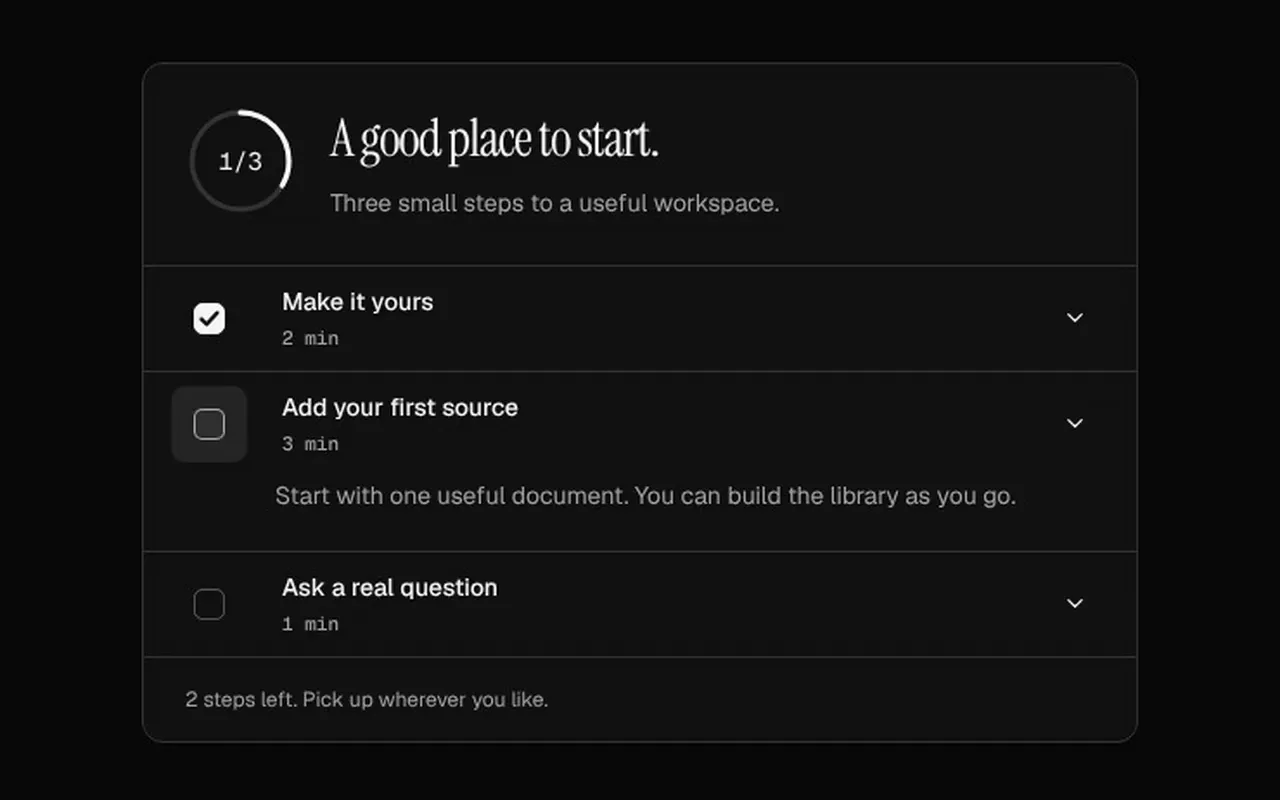
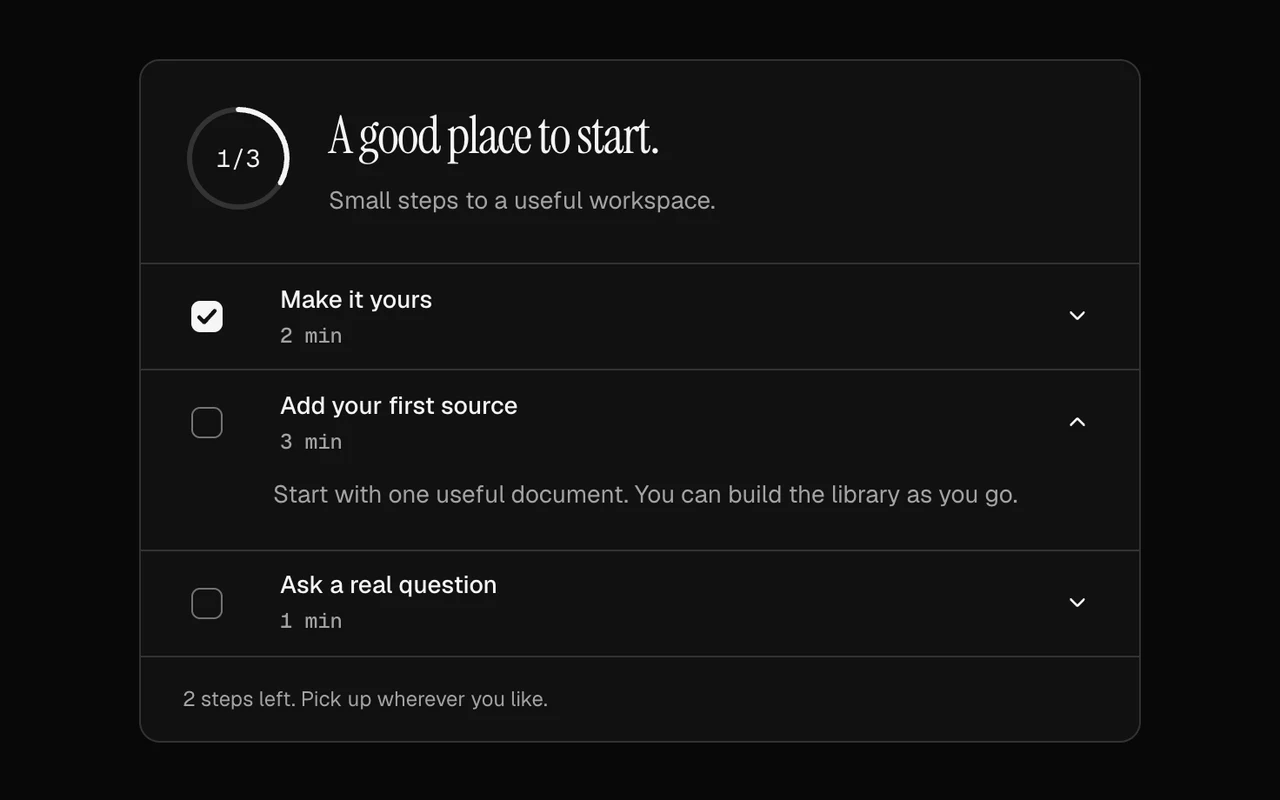
fix: protect setup checklist state; defer rejected film

diff --git a/registry/free/onboarding-setup-checklist/onboarding-setup-checklist.tsx b/registry/free/onboarding-setup-checklist/onboarding-setup-checklist.tsx
@@ -1,7 +1,14 @@
 "use client";
-import { type CSSProperties, useId, useState } from "react";
+import {
+  type CSSProperties,
+  useId,
+  useLayoutEffect,
+  useRef,
+  useState,
+  useSyncExternalStore,
+} from "react";
 import { ChevronDown } from "lucide-react";
-import { motion, useReducedMotion } from "motion/react";
+import { motion, useAnimationControls } from "motion/react";
 
 const control =
   "inline-flex min-h-11 min-w-11 items-center justify-center gap-2 rounded-lg px-3 text-sm font-medium transition-[background,transform] duration-150 hover:bg-[var(--wash)] disabled:hover:bg-transparent active:scale-[.97] focus-visible:outline-2 focus-visible:outline-offset-2 focus-visible:outline-[var(--ink)] disabled:cursor-not-allowed disabled:opacity-40 disabled:active:scale-100 motion-reduce:transform-none";
@@ -77,6 +84,7 @@ function colors(theme: "dark" | "light"): CSSProperties {
     "--wash": theme === "dark" ? "#242424" : "#f0f0f0",
     "--sc-ctl-ink": "var(--ink)",
     "--sc-ctl-surface": "var(--panel)",
+    "--sc-ctl-line": "#737373",
   } as CSSProperties;
 }
 
@@ -116,9 +124,16 @@ const defaults: SetupTask[] = [
     duration: "1 min",
   },
 ];
+const motionQuery = "(prefers-reduced-motion: reduce)";
+function subscribeToMotion(change: () => void) {
+  const query = window.matchMedia(motionQuery);
+  query.addEventListener("change", change);
+  return () => query.removeEventListener("change", change);
+}
+
 export function SetupChecklist({
   title = "A good place to start.",
-  description = "Three small steps to a useful workspace.",
+  description = "Small steps to a useful workspace.",
   tasks = defaults,
   completed,
   defaultCompleted = ["profile"],
@@ -126,21 +141,49 @@ export function SetupChecklist({
   theme = "dark",
 }: SetupChecklistProps) {
   const id = useId();
-  const reduced = useReducedMotion();
+  const reduced = useSyncExternalStore(
+    subscribeToMotion,
+    () => window.matchMedia(motionQuery).matches,
+    () => false,
+  );
+  const entrance = useAnimationControls();
+  const ring = useAnimationControls();
+  const ringStarted = useRef(false);
+  useLayoutEffect(() => {
+    entrance.stop();
+    const target = { opacity: 1, y: 0 };
+    if (reduced) entrance.set(target);
+    else void entrance.start({ ...target, transition: { duration: 0.32 } });
+    return () => entrance.stop();
+  }, [entrance, reduced]);
   const [local, setLocal] = useState(defaultCompleted);
   const [open, setOpen] = useState("sources");
-  const checked = completed ?? local;
+  const available = new Set(tasks.map((task) => task.id));
+  const checked = [...new Set((completed ?? local).filter((key) => available.has(key)))];
+  const readOnly = completed !== undefined && !onChange;
   const count = tasks.filter((t) => checked.includes(t.id)).length;
   const ratio = tasks.length ? count / tasks.length : 0;
+  useLayoutEffect(() => {
+    ring.stop();
+    const target = { strokeDashoffset: 176 * (1 - ratio) };
+    const first = !ringStarted.current;
+    ringStarted.current = true;
+    if (reduced) ring.set(target);
+    else void ring.start({ ...target, transition: { duration: 0.4, delay: first ? 0.16 : 0 } });
+    return () => ring.stop();
+  }, [ratio, reduced, ring]);
   function toggle(key: string) {
+    if (readOnly) return;
     const next = checked.includes(key)
       ? checked.filter((x) => x !== key)
       : [...checked, key];
     setLocal(next);
-    onChange?.(next);
+    onChange?.([...next]);
   }
   return (
-    <section
+    <motion.section
+      initial={{ opacity: 0, y: reduced ? 0 : 8 }}
+      animate={entrance}
       aria-labelledby={id}
       style={colors(theme)}
       className="@container w-full max-w-xl overflow-hidden rounded-xl border border-[var(--line)] bg-[var(--panel)] text-[var(--ink)]"
@@ -174,8 +217,8 @@ export function SetupChecklist({
               strokeWidth="3"
               strokeLinecap="round"
               strokeDasharray={176}
-              animate={{ strokeDashoffset: 176 * (1 - ratio) }}
-              transition={{ duration: reduced ? 0 : 0.4 }}
+              initial={{ strokeDashoffset: 176 }}
+              animate={ring}
             />
           </svg>
           <span className="absolute inset-0 grid place-items-center font-mono text-sm">
@@ -197,16 +240,19 @@ export function SetupChecklist({
       <ul className="border-t border-[var(--line)]">
         {tasks.map((task, i) => (
           <li
-            key={`${task.id}-${i}`}
+            key={task.id}
             className="border-b border-[var(--line)] last:border-b-0"
           >
             <div className="flex items-center gap-2 px-4 py-2">
-              <label className="relative grid h-11 w-11 shrink-0 cursor-pointer place-items-center rounded-lg hover:bg-[var(--wash)]">
+              <label
+                className={`relative grid h-11 w-11 shrink-0 place-items-center rounded-lg ${readOnly ? "cursor-default" : "cursor-pointer hover:bg-[var(--wash)]"}`}
+              >
                 <span className="sc-ctl-check">
                   <input
                     type="checkbox"
                     data-demo={`complete-${i}`}
                     checked={checked.includes(task.id)}
+                    disabled={readOnly}
                     onChange={() => toggle(task.id)}
                     aria-label={`Complete ${task.title}`}
                   />
@@ -232,13 +278,13 @@ export function SetupChecklist({
                   <span className="block text-sm font-medium">
                     {task.title}
                   </span>
-                  <span className={`font-mono text-[11px] ${muted}`}>
+                  <span className={`font-mono text-[12px] ${muted}`}>
                     {task.duration}
                   </span>
                 </span>
                 <ChevronDown
                   size={15}
-                  className="shrink-0"
+                  className={`shrink-0 transition-transform duration-150 motion-reduce:transition-none ${open === task.id ? "rotate-180" : ""}`}
                   aria-hidden="true"
                 />
               </button>
@@ -260,10 +306,10 @@ export function SetupChecklist({
         {tasks.length
           ? count === tasks.length
             ? "Everything on your list is complete."
-            : `${tasks.length - count} steps left. Pick up wherever you like.`
+            : `${tasks.length - count} ${tasks.length - count === 1 ? "step" : "steps"} left. Pick up wherever you like.`
           : "No setup tasks configured."}
       </p>
-    </section>
+    </motion.section>
   );
 }
 

diff --git a/docs/review/STATUS.md b/docs/review/STATUS.md
@@ -1,6 +1,6 @@
 # Review status
 
-186 components are rebuilt (or, for a few, polished), verified and committed. For each: whether its demo video
+187 components are rebuilt (or, for a few, polished), verified and committed. For each: whether its demo video
 needs re-recording, whether its poster is current, and the state of its browser regression probe.
 
 - **Video**: `new` means `public/previews/<slug>.mp4` still shows the old version. Re-record serially on a quiet machine:
@@ -30,7 +30,7 @@ Its reviewed four-second film and paired poster pass every recording guard. Shar
 Kanban, File Explorer, Communication Preferences and Weekly Agenda also have current reviewed films and paired
 posters. The complete 63-suite / 82-replay interface checkpoint is verified.
 
-Remaining queues: **12 components, 12 blocks, 59 dedicated probes and 115 films**.
+Remaining queues: **11 components, 12 blocks, 59 dedicated probes and 116 films**.
 
 ## Previous input checkpoint (19 October 2026)
 
@@ -309,7 +309,7 @@ See [the handoff checkpoint](HANDOFF_TASKS.md#8-final-release-checks) for revisi
 
 ## Cross-cutting browser checks
 
-- The interface checkpoint passes all 63 suites and all 82 exact metadata replays in one complete run, with source hashes, heads and standing changes fixed throughout.
+- The interface checkpoint passes all 63 suites and all 82 exact metadata replays in one complete run, with source hashes, heads and standing changes fixed throughout. Setup Checklist then passes focused checks and its 83rd replay; the next 64-suite / 83-replay batch remains pending.
 - Bento now waits for its complete entrance before checking zero mutations and exact historical data. All four theme/motion/ambient cases pass; an injected loop is rejected.
 - Audit Trail's first-frame popup state and keyboard/pointer dismissal are fixed. Its workflow, metadata replay and both-theme open-menu accessibility pass; the blocked-End control is rejected.
 - The complete scroll suite passes with exact reversal, first-frame chapter release, playable WebM, offscreen pause and broken-film recovery.
@@ -342,3 +342,4 @@ See [the handoff checkpoint](HANDOFF_TASKS.md#8-final-release-checks) for revisi
 | `data-file-explorer` | current | current | Independent deep selection copies, stable sibling-key focus, controlled/read-only selection, local deep-tree scrolling and live reduced motion pass. Five original failures are retained. The 37-mount source review, eighteen accessibility audits, six widths, state/entrance captures, Next regression, theme control, official audit and exact select/fold replay pass. Empty/arriving files, opaque IDs, independent projects, bounded cycles and large-tree keyboard scrolling are covered. Strict registry, root/isolated types and all 1,066 tests pass. Its reviewed 3.9s film and paired poster keep every state inside the measured initial union, with all recording guards retained. Included in the complete 63-suite / 82-replay checkpoint. |
 | `forms-preference-center` | current | current | Independent normalized callback snapshots, read-only controlled choices, disabled empty/unconfigured saves, immediate pending locks, serial writes, retired stale feedback, option-key focus and live reduced motion pass. Seven original failures are retained. Its 41-mount source review, eighteen accessibility audits, six widths, state/entrance captures, Next regression, theme control, official audit and exact select/save replay pass. Strict registry, root/isolated types and all 1,066 tests pass. Its reviewed 4.0s film and paired poster contain every state in the measured initial union, with every recording guard retained. The forms/dates suite is registered and passes in the complete 63-suite / 82-replay checkpoint. |
 | `date-week-agenda` | current | current | Independent event snapshots, stable day/event-key focus, live reduced motion and 12px time metadata pass. Four original failures are retained. Its 31-mount source review, eighteen accessibility audits, six widths, state/entrance captures, Next regression, theme control, official audit and exact Monday-notes/Tuesday replay pass. Empty/arriving schedules, missing-day fallback, host display labels, replaced days, long copy and independent agendas are covered. Strict registry, root/isolated types and all 1,066 tests pass. Its reviewed 4.0s film and paired poster keep all states visible with every recording guard retained. Included in the complete 63-suite / 82-replay checkpoint. |
+| `onboarding-setup-checklist` | new | current | Independent normalized completion arrays, read-only controlled completion, stable task-key focus, live ring/card motion, checkbox contrast and singular remaining-step copy pass. Six original failures are retained. Its 37-mount source review, eighteen accessibility audits, six widths, state/entrance captures, Next regression, theme control, official audit and exact completion/disclosure replay pass. Refused controlled proposals, empty/arriving tasks, long copy and independent checklists are covered. Strict registry, root/isolated types and all 1,066 tests pass. Its settled Next poster is reviewed and current. The film is rejected for a 998.88ms changed-source delivery gap; the old film is retained and the rejected raw capture/metrics remain local with every guard unchanged. The onboarding runner is registered; the next 64-suite / 83-replay batch remains pending. |

diff --git a/registry/free/onboarding-setup-checklist/prompt.md b/registry/free/onboarding-setup-checklist/prompt.md
@@ -1,27 +1,31 @@
 # Workspace Setup Checklist
 
-Build a standalone React 19 and Tailwind v4 component. An actionable setup checklist with a drawn completion ring, expandable instructions and native checkboxes, designed for thoughtful first-run experiences.
+Build a standalone React 19, Tailwind v4 and motion/react checklist with the existing named export, typed API and overridable default demo.
 
-## Layout
+## Layout and type
 
-A 64px progress ring alongside a serif heading, followed by broad checklist rows, each led by an 18px ink checkbox whose check draws in, inside a 44px target. Each task has a short time estimate and inline instructions. Size to the container. Use a 4/8px rhythm, 1px surface edges, 16px narrow padding and 24px desktop padding. Controls have 44px targets.
+Preserve the focused setup checklist: a 64px drawn completion ring beside a 30px Instrument Serif heading, 14px task titles and instructions, generous ruled task rows and a quiet completion footer. Use 12px mono duration labels and the embedded checkbox kit with #737373 unchecked boundaries, at least 3:1 in both neutral themes. Checkbox completion and instruction disclosure are separate 44px targets.
 
-## Typography and colour
+## Interaction
 
-Use font-sans at 14-16px/1.5, font-mono metadata at 11-12px and a 24-36px heading with -0.035em tracking. Dark uses #111111, #f5f5f5, #a3a3a3 and #333333; light uses #ffffff, #171717, #525252 and #d4d4d4. Maintain AA contrast.
+Keep SetupTask and SetupChecklistProps. Use stable unique task IDs as React keys so reordering retains focused checkbox/disclosure DOM and open instructions.
+
+Use defaultCompleted for a local draft or completed with onChange for host control. Filter completion IDs to available tasks and deduplicate them. Required external setup work remains the host responsibility; checking a row only updates completion state.
+
+Pass an independent completion array to onChange synchronously. A host callback cannot mutate the stored local draft. Controlled completion without a writer is disabled while instruction disclosures remain active.
+
+Keep the ring, visible count, accessible count and written footer consistent with actual checked rows. A refused controlled proposal must not appear complete. Support check and uncheck, singular remaining-step copy, all-complete and no-configured-tasks states.
+
+Keep one instruction disclosure open at a time, with aria-expanded and instance-scoped aria-controls. Native Enter and Space activate buttons and checkboxes. Expose completion feedback through a polite status.
+
+Accept empty and arriving task lists, long descriptions and independent instances without overflow or ID collisions. Duration values are host display labels, without parsing or external operations.
 
 ## Motion
 
-Use a 320ms opacity/8px entrance, 150ms press response and 240ms state changes, easing cubic-bezier(0.22,1,0.36,1). No ambient loops. Reduced motion removes transforms and layout animation and limits fades to 120ms.
+Enter the whole checklist with opacity and an 8px rise over 320ms. Draw the ring from empty over 400ms after a 160ms initial delay; later completion changes animate in either direction without that delay. Use the embedded checkbox hover, press, focus and checkmark treatment. Rotate the active instruction chevron over 150ms. Subscribe to live prefers-reduced-motion changes. Stop and settle the owned card/ring controls immediately; the checkbox kit removes transforms and checkmark travel.
 
-## Behaviour and accessibility
+## Integration
 
-Use semantic elements, native keyboard behaviour, visible focus rings and instance-scoped IDs. Expose typed content and callbacks. Handle empty custom data and repeated instances. Announce important feedback politely. Match the source state ownership and callback contract.
+Supply stable unique task IDs. Use defaultCompleted for a local checklist, or completed with onChange for host acknowledgement. onChange receives an independent normalized ID array synchronously. Perform setup work and persistence in the host; the checkbox records completion and does not run an external action.
 
-## Responsive
-
-Design for 320, 390, 768, 1024, 1440 and 1920px. Respond to the container with @container variants, wrap text and stack secondary details. Scroll only within explicitly labelled local regions.
-
-## Avoid
-
-No remote imagery, false success states, unlabelled controls, hover-only actions, low contrast or decorative status pills. The demo is an isolated component on a quiet stage.
+Use the source dark/light palettes, visible focus and 320/390/768/1024/1440/1920px container layouts.

diff --git a/docs/review/HANDOFF_TASKS.md b/docs/review/HANDOFF_TASKS.md
@@ -372,7 +372,9 @@ and how to know it's done. Pick any of them up independently. Background, briefs
 
 - Task 8 (19 October): the interface checkpoint passes all 63 browser suites and 82 exact metadata replays at public `b015a68` / private `6a39c66`, with 933/1,138 tracked text sources, both heads and standing edits unchanged. Fresh audits for Kanban, Explorer, Preferences and Agenda pass; all forty captures are reviewed, with 38 byte-identical and two small Kanban raster differences inspected. The stopped-server connection failures are preserved separately. Strict registry, root/isolated types, all 1,066 unit tests and the Worker dry run pass with every bundle guard retained. All four films and paired posters are current. 12 components, 12 blocks, 59 probes and 115 films remain.
 
-## 1. Re-record demo videos (115 components)
+- Task 7 (19 October): Workspace Setup Checklist keeps separate completion and instruction controls. Notifications receive copied available-ID arrays, controlled completion without a writer is read-only, task-key reordering retains focus and live reduced motion settles the ring/card. Unchecked boundaries meet 3:1; durations use 12px type; the ring draws from empty; chevrons show open state; remaining-step copy handles one; and the subtitle no longer hard-codes three tasks. Six original-source failures are retained. Its 37-mount source review, eighteen accessibility audits, six widths, reviewed state/entrance captures, Next regression, theme control, official audit and exact completion/disclosure replay pass. Refused controlled changes, normalized IDs, empty/arriving tasks, long copy and independent instances are covered. Strict registry, root/isolated types and all 1,066 tests pass. Its settled Next poster is reviewed and current. The film is rejected for a 998.88ms changed-source delivery gap (13 stalls); source cadence is 17ms and moving-frame p95 is 25.37ms without stalls. The rejected raw capture/metrics are preserved, the prior film is retained and every guard stays unchanged. The onboarding runner is registered; the next complete batch has 64 suites and 83 metadata replays and remains pending. 11 components and 12 blocks remain; 116 films remain queued.
+
+## 1. Re-record demo videos (116 components)
 
 Every rebuilt component's poster is current but its catalogue film (`public/previews/<slug>.mp4`) still shows the old
 version. Record them one at a time on an otherwise idle machine; the recorder rejects frame stalls under load.
@@ -391,6 +393,7 @@ slug or per small group). Notes:
 
 Slugs:
 
+`onboarding-setup-checklist`
 `devtools-request-waterfall`
 `chart-bullet-targets`
 `chart-slope-comparison`
@@ -522,9 +525,9 @@ All nine parked rebuilds are shipped in both repos. Their original `_wip/<slug>`
 | finance-budget-variance | Completed 17 October: Next probe, dark/light accessibility, responsive and entrance/state captures, live demo and refreshed poster pass. |
 | finance-cashflow-dashboard | Completed 17 October: weekly balance and in/out bars, movable payments, independent pending saves, invalid-data guards, selected-week list geometry, Next probe/demo, both-theme accessibility, responsive/state/entrance captures and refreshed poster pass. |
 
-## 7. Continue the review (12 components, then 12 blocks)
+## 7. Continue the review (11 components, then 12 blocks)
 
-Same process as the 186 already done: hold each to the first ~100 components' standard. Briefs:
+Same process as the 187 already done: hold each to the first ~100 components' standard. Briefs:
 `docs/review/REVIEW_BRIEF.md`, `docs/review/SUITE_BRIEF.md` for industry components, suite languages in
 `docs/review/suites/`. Work newest first, about four components per batch, and verify each (build, tsc, tests,
 check-component, your own captures of states and mid-entrance frames, a refreshed poster, a rewritten pro-50 probe for
@@ -532,7 +535,7 @@ industry components).
 
 - **Commerce** is reviewed. Keep `block-commerce-workspace` compatible with its rebuilt parts.
 - **Smaller components** (#151–179):
-  onboarding-setup-checklist, date-booking-slots, input-file-dropzone, input-shortcut-recorder,
+  date-booking-slots, input-file-dropzone, input-shortcut-recorder,
   feedback-empty-search, navigation-pagination-window, primitives-shortcut-reference, selects-radio-cards,
   progress-milestones, content-accordion-index, feedback-inline-alert, navigation-breadcrumb-fold.
 - **Blocks**, after their parts: the 12 `block-*` components. Many parts changed their look and some their props;
